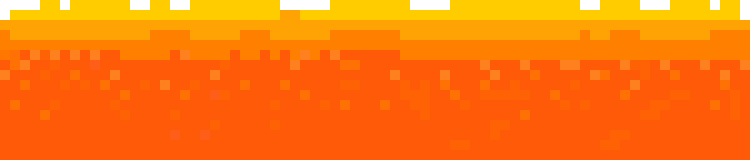
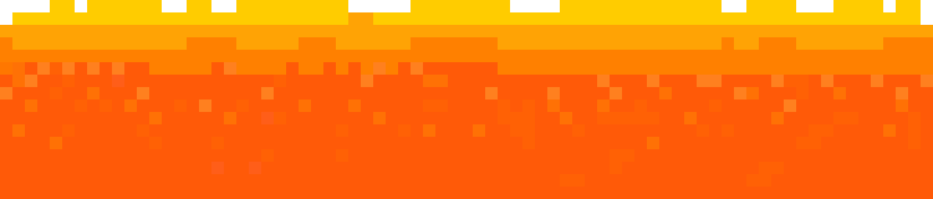
modif img + saut

diff --git a/project/www/PixelUp/public/game/js/configGameMoveBackgroung.js b/project/www/PixelUp/public/game/js/configGameMoveBackgroung.js
@@ -1,6 +1,6 @@
 let tabConfigMoveBackground = {
     SOUS_TERRE : {
-        hauteurSaut : 100,
+        hauteurSaut : 300,
         millisecondeSaut : 2,
         millisecondeTomber : 2,
         millisecondeDeplacement : 8,
@@ -9,7 +9,7 @@ let tabConfigMoveBackground = {
         largeurCoucou : 15,
     },
     SOUS_MER : {
-        hauteurSaut : 100,
+        hauteurSaut : 300,
         millisecondeSaut : 2,
         millisecondeTomber : 2,
         millisecondeDeplacement : 8,
@@ -18,7 +18,7 @@ let tabConfigMoveBackground = {
         largeurCoucou : 15,
     },
     TERRE : {
-        hauteurSaut : 100,
+        hauteurSaut : 300,
         millisecondeSaut : 2,
         millisecondeTomber : 2,
         millisecondeDeplacement : 8,
@@ -27,7 +27,7 @@ let tabConfigMoveBackground = {
         largeurCoucou : 15,
     },
     CIEL_NUAGE : {
-        hauteurSaut : 100,
+        hauteurSaut : 300,
         millisecondeSaut : 2,
         millisecondeTomber : 2,
         millisecondeDeplacement : 8,
@@ -36,7 +36,7 @@ let tabConfigMoveBackground = {
         largeurCoucou : 15,
     },
     CIEL_AVIONS : {
-        hauteurSaut : 100,
+        hauteurSaut : 300,
         millisecondeSaut : 2,
         millisecondeTomber : 2,
         millisecondeDeplacement : 8,
@@ -45,7 +45,7 @@ let tabConfigMoveBackground = {
         largeurCoucou : 15,
     },
     ESPACE_ASTEROIDE : {
-        hauteurSaut : 100,
+        hauteurSaut : 300,
         millisecondeSaut : 2,
         millisecondeTomber : 2,
         millisecondeDeplacement : 8,
@@ -54,7 +54,7 @@ let tabConfigMoveBackground = {
         largeurCoucou : 15,
     },
     ESPACE_SATELLITE : {
-        hauteurSaut : 100,
+        hauteurSaut : 300,
         millisecondeSaut : 2,
         millisecondeTomber : 2,
         millisecondeDeplacement : 8,
@@ -63,7 +63,7 @@ let tabConfigMoveBackground = {
         largeurCoucou : 15,
     },
     ESPACE_VAISSEAU : {
-        hauteurSaut : 100,
+        hauteurSaut : 300,
         millisecondeSaut : 2,
         millisecondeTomber : 2,
         millisecondeDeplacement : 8,

diff --git a/project/www/PixelUp/public/game/vanessa/index2.html b/project/www/PixelUp/public/game/vanessa/index2.html
@@ -358,7 +358,7 @@
 
                         <button id="validerConfigGameMoveBackground" type="submit" href="/">Valider</button>
                     </form>
-                </div>
+                </div>   
             </div>
         </div>
        
